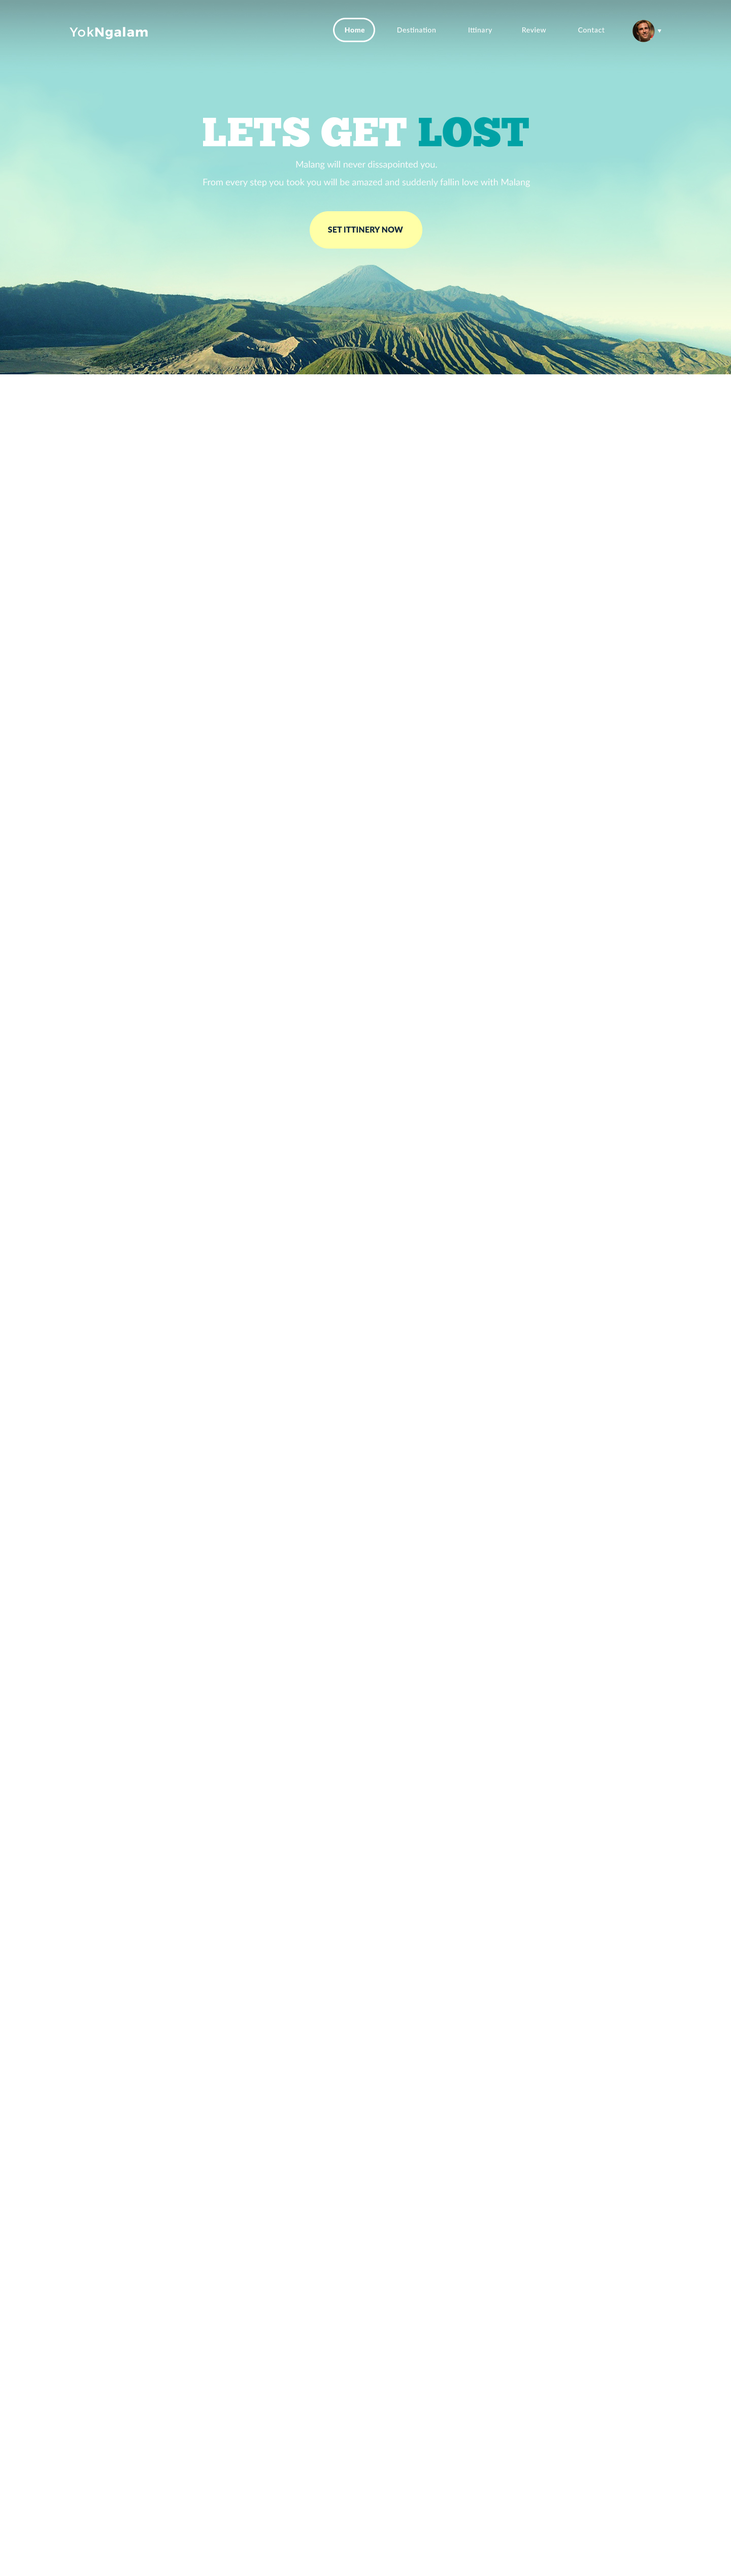
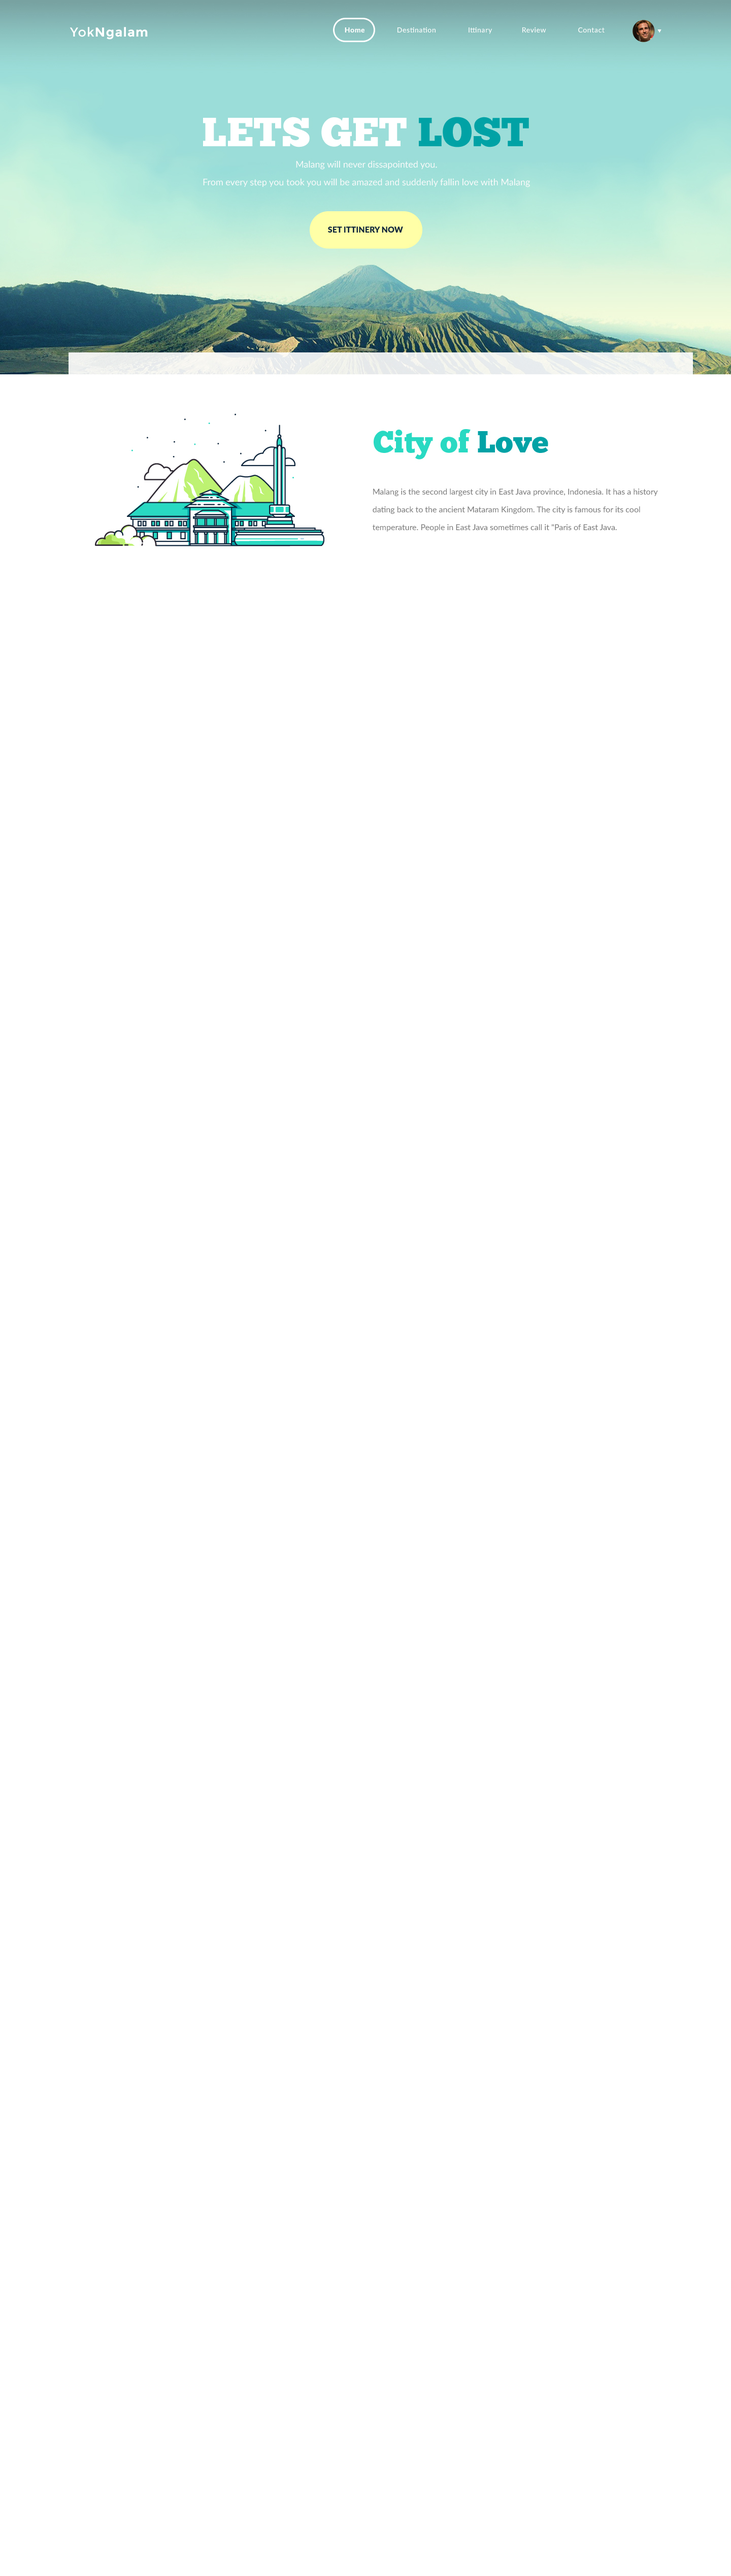
Исправленный хедер

Changed region(s): [[0.0938, 0.1246, 0.9375, 0.218]]

diff --git a/style.css b/style.css
@@ -61,19 +61,21 @@ html, body {
 
 .header-menu li {
     float: left;
-    padding: 0 30px 0 30px;
+    margin-left: 16px;
 }
 
 .header-menu li a {
     list-style: none;
     text-decoration: none;
     color: white;
+    border: 3px solid transparent;
+    border-radius: 36px;
+    padding: 15px 20px;
+    transition: all 0.2s ease-out 0s;
 }
 
 .header-menu a:hover {
-    border: 3px solid;
-    border-radius: 36px;
-    padding: 15px 20px;
+    border-color: white;
 }
 
 .profile {
@@ -84,6 +86,7 @@ html, body {
     border-radius: 50%;
     position: relative;
     margin: 35px 16px;
+    cursor: pointer;
 }
 
 .profile:after {
@@ -132,16 +135,24 @@ html, body {
     border-radius: 32px;
     color: #10273d;
     font-weight: bold;
+    transition: all 0.2s ease-out 0s;
 }
 
 .header-button:hover {
-     opacity: 0.7;
+    opacity: 0.7;
 }
 
 .clearfix::after {
     content: "";
     display: block;
     clear: both;
+}
+
+.vector-smart-obiject {
+    float: left;
+    width: 452px;
+    height: 264px;
+    background-image: url("./images/about.png");
 }
 
 

diff --git a/index.html b/index.html
@@ -8,6 +8,7 @@
 </head>
 <body>
     <div class="header">
+
         <div class="content clearfix">
             <div class="name-site">Yok<span class="name-site-word">Ngalam</span></div>
             <div class="profile" style="background-image: url(./images/profile.jpg)"></div>
@@ -27,7 +28,15 @@
             </div>
             <a href="#" class="header-button">SET ITTINERU NOW</a>
         </div>
+
     </div>
+
+    <div class="about  clearfix">
+        <div class="content clearfix">
+            <div class="vector-smart-obiject"></div>
+        </div>
+    </div>
+
     <div class="proverka"></div>
 </body>
 </html>
